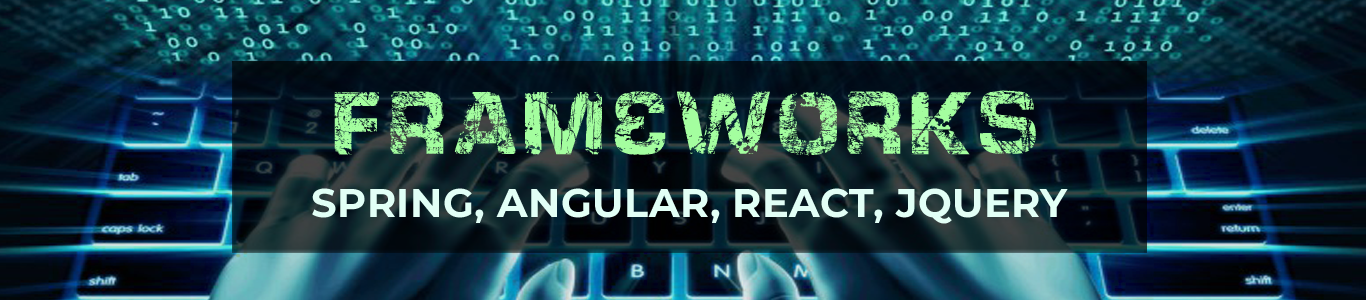
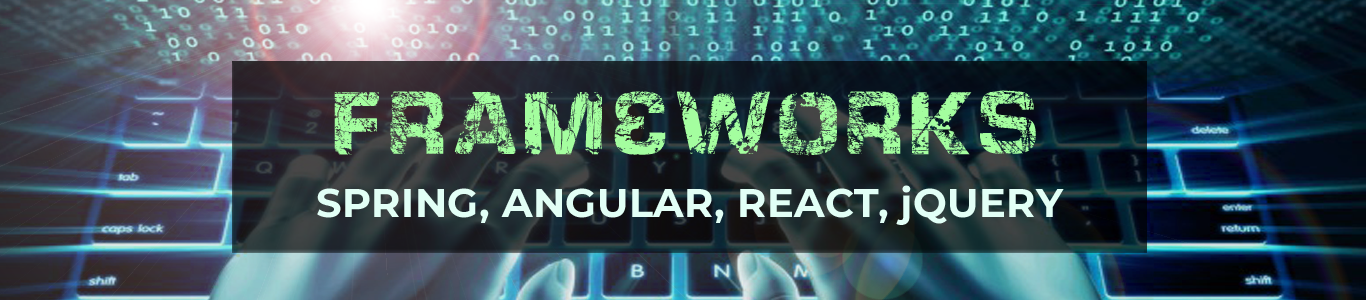
mejora de imagenes

diff --git a/index.html b/index.html
@@ -74,17 +74,13 @@
             <ol class="carousel-indicators">
               <li data-target="#carouselExampleIndicators" data-slide-to="0" class="active"></li>
               <li data-target="#carouselExampleIndicators" data-slide-to="1"></li>
-              <li data-target="#carouselExampleIndicators" data-slide-to="2"></li>
             </ol>
             <div class="carousel-inner">
               <div class="carousel-item active">
-                <img class="d-block w-100" src="images/programacion.jpg" alt="First slide">
+                <img class="d-block w-100" src="images/programacion.png" alt="First slide">
               </div>
               <div class="carousel-item">
-                <img class="d-block w-100" src="images/diseño5.png" alt="Second slide">
-              </div>
-              <div class="carousel-item">
-                <img class="d-block w-100" src="images/frameworks.png" alt="Third slide">
+                <img class="d-block w-100" src="images/frameworks.png" alt="Second slide">
               </div>
             </div>
             <a class="carousel-control-prev" href="#carouselExampleIndicators" role="button" data-slide="prev">
@@ -128,7 +124,7 @@
                 User: Juan (paciente) &nbsp; &nbsp;
                 Pass: 0 <br>
                             <br><a class="enlace" href="https://github.com/Alexpinilla/HIS-frontend-angular" target="_blank"> Ver código </a><br>
-                            <a class="enlace" href="https://alexpinilla.github.io/HIS-frontend-angular/" target="_blank"> Ver página del proyecto:
+                            <a class="enlace" href="https://alexpinilla.github.io/HIS-frontend-angular/" target="_blank"> Ver página del proyecto
                             </a>
 
                         </p>

diff --git a/css/estilo.css b/css/estilo.css
@@ -105,7 +105,7 @@ a:active{
 .titulo {
     padding-top:10px;
     padding-bottom: 10px;
-    color: #93ffdb;
+    color: #74fdb5;
     font-weight: bold;
     font-size: 20px;
     letter-spacing: 7.5px;
